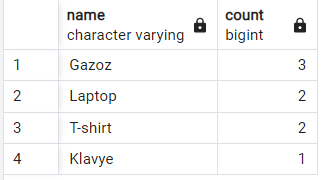
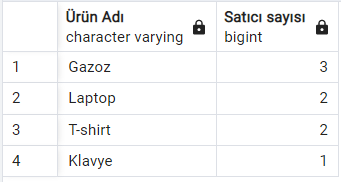
homework done

diff --git a/homework-2811/readme.md b/homework-2811/readme.md
@@ -1,0 +1,74 @@
+# _SQL Örnekleri_
+
+> Ürünler tablosuna ürün eklemek;
+
+![products](products.png)
+
+`insert into products (name,unit_price,stock) 
+values ('Mouse', 500,20)`
+
+![products-insert](product-insert.png)
+
+> Ürünler tablosunda ürün güncellemek;
+
+`update products set unit_price=250 where name='Mouse'`
+ 
+![products-update](product-update.png)
+
+> ürünler tablosunda ürün silmek;
+
+`delete from products where name='Mouse'`
+
+![products-delete](product-delete.png)
+
+
+> Belirli sınırlar arasındaki kayıtları getirmek;
+
+
+`select * from products where cast(unit_price as numeric)
+between 100 and 400`
+
+Fiyat aralığı 100 ile 400 olan ürünler
+![products-betwenn](product-between.png)
+
+> Birden fazla 'Where' işlemini tek seferde yapmak;
+
+`select ci.name as "Şehir Adı", co.name as "Ülke Adı" from cities ci
+inner join countries co on ci.country_id=co.id
+where lower(co.name) in('almanya','hollanda') `
+
+Ülkesi 'Almanya' veya 'Hollanda' olan şehirler
+
+![city-in](city-in.png)
+
+> Birbirleri ile bağlantılı tabloları ve kayıtlarını getirmek (İnner Join);
+
+`select pr.name as "Ürün Adı", ca.name as "Kategori Adı" from product_categories pc
+inner join products pr
+on pc.product_id = pr.id
+inner join categories ca
+on pc.category_id = ca.id`
+
+Ürünler ve bağlı oldukları kategori bilgisi.
+
+![product-innerjoin](product-innerJoin.png)
+
+> Birbirleri ile bağlantılı tabloları ve kayıtlarını getirmek (Left Join);
+
+`select * from products pr
+left join product_suppliers ps
+on pr.id = ps.product_id where ps.supplier_id is null`
+
+Satıcı olmayan ürünlerin bilgisi.
+
+![product-leftJoin](product-leftjoin.png)
+
+>Birbiriyle bağlantılı verileri gruplayabilmek;
+
+`select pr.name as "Ürün Adı", count(ps.supplier_id) as "Satıcı sayısı" from products pr
+inner join product_suppliers ps on pr.id=ps.product_id
+group by pr.name order by count(ps.supplier_id) desc`
+
+Ürün adı ve satıcı sayısını azalan şekilde getirilmesi.
+
+![product-groupBy](product-groupBy.png)
